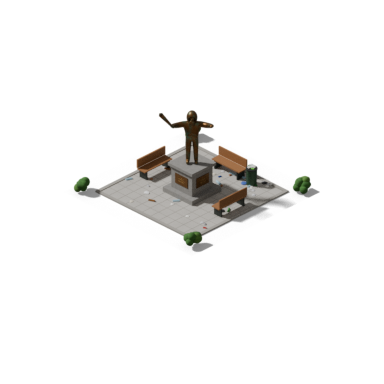
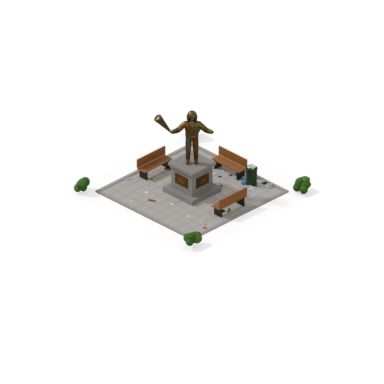
Socha Karla Machy: ruce niz, vousy po pupek, joint jako trychtyr, slabe stiny
Ruce od sebe ale niz (dlane ve vysce hrudi), dlouhe vousy s prameny az po
pupek leza na mikine, u kamenne o kus tmavsi. Joint je rovny kuzel od
tenkeho filtru do sirokeho useknuteho konce. Slabsi slunce, silnejsi okoli
a stin na travu jen 20 %.

Claude-Session: https://claude.ai/code/session_01P6zYdmMEQjTTZJyV6Qb8Ch

diff --git a/socha/render_socha.py b/socha/render_socha.py
@@ -2,14 +2,16 @@
 # Socha Karla Máchy na 1 policko (hrac 1. 10.: "udelej Karel Macha statue, policko 1x1 sochu uprostred, sedou
 # z kamene a bronzovou, karel macha bude mit kapucu, vousy a obrovskyho dzonta v ruce, ruce bude mit od sebe jako by
 # se chystal obejmout neco velkyho, okolo lavicky, male krovicko, odpadak, odpadky").
-# Vlastni model, kamera, meritko, svetlo a stin jako automat (automat/render_automat.py), vsechno dvakrat vetsi
-# (MERITKO 2) jako automat, at to k sobe sedi.
+# Pak (hrac): "ruce trochu niz, ne podel tela, neco mezi tim, vousy po pupek dlouhy a jointa vic do trychtyre, sirsi na
+# konci" a "mnohem mene stinu".
+# Vlastni model, kamera a meritko jako automat (automat/render_automat.py), vsechno dvakrat vetsi (MERITKO 2) jako
+# automat, at to k sobe sedi. Slunce slabsi a okoli silnejsi nez u automatu, stin na travu jen 20 %.
 #   python3 render_socha.py <vystup.png>          SOCHA=kamen (sediva z kamene) nebo SOCHA=bronz
 # Souradnice jako ve hre: x k jihozapadu, y k jihovychodu, z nahoru, pocatek v severnim rohu policka; skupina je
 # navrzena ve skutecne velikosti kolem stredu policka C a zvetsi se K krat.
 # Postava stoji na podstavci cela k divakovi (k jihu), aby roztazene ruce byly na obrazku vodorovne: mikina s kapuci
-# na hlave, plnovous, ruce dopredu od sebe jako k objeti, v prave ruce obrovsky joint. Telo je kostra s modifikatorem
-# Skin a vyhlazenim, takze je hladke jako tesane nebo lite.
+# na hlave, plnovous po pupek, ruce od sebe jako k objeti, v prave ruce obrovsky joint jako trychtyr. Telo je kostra
+# s modifikatorem Skin a vyhlazenim, takze je hladke jako tesane nebo lite.
 import bpy, bmesh, os, sys, math, json, random
 import numpy as np
 from mathutils import Vector, Matrix, noise
@@ -42,7 +44,7 @@ bg = nt.nodes.new('ShaderNodeBackground'); env = nt.nodes.new('ShaderNodeTexEnvi
 env.image = bpy.data.images.load(HDRI)
 nt.links.new(env.outputs['Color'], bg.inputs['Color']); nt.links.new(bg.outputs['Background'], wo.inputs['Surface'])
 scene.world.cycles_visibility.shadow = True
-bg.inputs["Strength"].default_value = float(os.environ.get("OKOLI", "0.35"))
+bg.inputs["Strength"].default_value = float(os.environ.get("OKOLI", "0.9"))      # hrac: "mnohem mene stinu"
 
 def srgb(c):
     return tuple(((v / 255) ** 2.2) for v in c) + (1.0,)
@@ -88,6 +90,8 @@ M = {
     "cerna": mat("cerna", (14, 14, 14), 0.9),
 }
 M["socha"] = bronz() if SOCHA == "bronz" else mat("socha", (178, 176, 170), 0.9, sum_=0.08, meritko=10.0)
+# vousy u kamenne hrube tesane, o kus tmavsi, jinak by se pri slabych stinech ztratily na mikine (bronz stejny)
+M["vousy"] = M["socha"] if SOCHA == "bronz" else mat("vousy", (146, 144, 138), 0.95, sum_=0.16, meritko=40.0)
 ODPAD = {"papir": [mat(f"papir{i}", c, 0.9) for i, c in enumerate([(236, 234, 226), (214, 206, 186), (200, 200, 204)])],
          "plech": [mat(f"plech{i}", c, 0.35, kov=0.6) for i, c in enumerate([(196, 30, 34), (190, 192, 196), (36, 80, 170), (40, 140, 60)])],
          "lahev": [mat(f"lahev{i}", c, 0.2) for i, c in enumerate([(160, 196, 214), (70, 140, 70), (120, 80, 40)])],
@@ -246,9 +250,10 @@ KOSTI = {
     "panev": (0, 0, 0.98), "bricho": (0, 0.01, 1.15), "hrud": (0, 0, 1.33), "krk": (0, 0, 1.50),
     "kycel_p": (0.10, 0, 0.93), "koleno_p": (0.12, 0.04, 0.52), "kotnik_p": (0.13, 0, 0.10), "spicka_p": (0.15, 0.18, 0.05),
     "kycel_l": (-0.10, 0, 0.93), "koleno_l": (-0.12, 0.04, 0.52), "kotnik_l": (-0.13, 0, 0.10), "spicka_l": (-0.15, 0.18, 0.05),
-    # ruce od sebe dopredu jako k objeti neceho velkeho: nadlokti do stran a malo dopredu, predlokti dopredu a ven
-    "rameno_p": (0.23, 0, 1.43), "loket_p": (0.50, 0.16, 1.46), "zapesti_p": (0.62, 0.40, 1.58), "ruka_p": (0.64, 0.52, 1.63),
-    "rameno_l": (-0.23, 0, 1.43), "loket_l": (-0.50, 0.16, 1.46), "zapesti_l": (-0.62, 0.40, 1.58), "ruka_l": (-0.64, 0.52, 1.63),
+    # ruce od sebe jako k objeti neceho velkeho, ale niz (hrac: "ne podel tela, neco mezi tim"): nadlokti sikmo dolu
+    # do stran a malo dopredu, predlokti dopredu a ven, dlane ve vysce hrudi
+    "rameno_p": (0.23, 0, 1.43), "loket_p": (0.446, 0.075, 1.235), "zapesti_p": (0.611, 0.281, 1.29), "ruka_p": (0.667, 0.37, 1.323),
+    "rameno_l": (-0.23, 0, 1.43), "loket_l": (-0.446, 0.075, 1.235), "zapesti_l": (-0.611, 0.281, 1.29), "ruka_l": (-0.667, 0.37, 1.323),
 }
 HRANY = [("panev", "bricho"), ("bricho", "hrud"), ("hrud", "krk")]
 for s in ("p", "l"):
@@ -291,23 +296,58 @@ def otvor_kapuce(p):
 kapuce = elipsoid("kapuce", (0, -0.035, 1.65), (0.17, 0.185, 0.23), otvor_kapuce)                # vyssi nad hlavou
 sol = kapuce.modifiers.new("tloustka", 'SOLIDIFY'); sol.thickness = 0.016; sol.offset = -1.0
 kapuce.modifiers.new("hladke", 'SUBSURF').levels = 1
-# plnovous: brada, lice a knir
-elipsoid("vousy", (0, 0.07, 1.48), (0.105, 0.08, 0.15))                      # plnovous az na prsa
-elipsoid("knir", (0, 0.11, 1.585), (0.055, 0.025, 0.02))
-elipsoid("kapsa", (0, 0.135, 1.08), (0.15, 0.028, 0.08))                     # klokani kapsa mikiny
+def loft(jmeno, kruhy, konec=None, deleni=1):
+    """sit z kruhu bodu (vsechny stejne dlouhe) spojenych pasy; prvni kruh zavre stena, posledni stena nebo spicka konec"""
+    bm = bmesh.new()
+    vk = [[bm.verts.new(p) for p in k] for k in kruhy]
+    n = len(vk[0])
+    for a, b in zip(vk, vk[1:]):
+        for k in range(n):
+            bm.faces.new((a[k], a[(k + 1) % n], b[(k + 1) % n], b[k]))
+    bm.faces.new(vk[0])
+    if konec is None:
+        bm.faces.new(vk[-1])
+    else:
+        v = bm.verts.new(konec)
+        for k in range(n):
+            bm.faces.new((vk[-1][k], vk[-1][(k + 1) % n], v))
+    bmesh.ops.recalc_face_normals(bm, faces=bm.faces)
+    m_ = bpy.data.meshes.new(jmeno); bm.to_mesh(m_); bm.free()
+    o = bpy.data.objects.new(jmeno, m_); scene.collection.objects.link(o)
+    sub = o.modifiers.new("hladke", 'SUBSURF'); sub.levels = sub.render_levels = deleni
+    pridej(o)
+    return o
 
-# obrovsky joint v prave ruce: kuzel od prstu ven a nahoru, u prstu uzky, na konci siroky se zakroucenou spickou
+# plnovous: lice a brada, knir a dlouhe vousy po pupek (hrac): od brady pres prsa a bricho do spicky. Vzadu lezi
+# kousek zanorene na mikine (predek tela zmereny z modelu: y 0,09 u krku, 0,15 na bricho), vpredu pramenky.
+VOUSY_OBJ = [elipsoid("vousy", (0, 0.07, 1.48), (0.105, 0.08, 0.15)), elipsoid("knir", (0, 0.11, 1.585), (0.055, 0.025, 0.02))]
+def kruh_vousu(z, w, d, yc, n=48):
+    body = []
+    for k in range(n):
+        a = 2 * math.pi * k / n
+        pramen = 1 + 0.07 * math.cos(12 * a) * max(0.0, math.sin(a))
+        body.append((w * math.cos(a) * pramen, yc + d * math.sin(a) * pramen, z))
+    return body
+# kruhy dlouhych vousu: (vyska, pulsirka, pulhloubka, stred y)
+VOUSY = [(1.57, 0.085, 0.04, 0.095), (1.50, 0.105, 0.05, 0.125), (1.42, 0.11, 0.047, 0.147), (1.33, 0.102, 0.041, 0.158),
+         (1.25, 0.09, 0.036, 0.164), (1.18, 0.072, 0.03, 0.166), (1.12, 0.048, 0.024, 0.162), (1.075, 0.022, 0.015, 0.152)]
+VOUSY_OBJ.append(loft("vousy_dlouhe", [kruh_vousu(*v) for v in VOUSY], konec=(0, 0.149, 1.048), deleni=2))
+for o in VOUSY_OBJ: o.data.materials[0] = M["vousy"]
+elipsoid("kapsa", (0, 0.13, 1.0), (0.15, 0.028, 0.075))                      # klokani kapsa mikiny, kousek pod vousy
+
+# obrovsky joint v prave ruce jako trychtyr (hrac: "zvyraznit trychtyrovitost, sirsi na konci"; rovny tlusty kuzel byl
+# "americky typu fat"): u prstu tenky filtr, pak rovny kuzel az do sirokeho konce, ten je useknuty a uprostred
+# zakrouceny do male spicky
 ruka = Vector(KOSTI["ruka_p"])
-smer = Vector((0.5, 0.35, 0.8)).normalized()
-DELKA, R_UZKY, R_SIROKY = 0.8, 0.022, 0.065
-bm = bmesh.new()
-bmesh.ops.create_cone(bm, cap_ends=True, cap_tris=False, segments=16, radius1=R_UZKY, radius2=R_SIROKY, depth=DELKA)
-bmesh.ops.create_cone(bm, cap_ends=True, cap_tris=False, segments=16, radius1=R_SIROKY * 0.95, radius2=0.004, depth=0.09,
-                      matrix=Matrix.Translation((0, 0, DELKA / 2 + 0.045)))
-rot = Vector((0, 0, 1)).rotation_difference(smer).to_matrix().to_4x4()
-bmesh.ops.transform(bm, matrix=Matrix.Translation(ruka + smer * (DELKA / 2 - 0.08)) @ rot, verts=bm.verts)
-m_ = bpy.data.meshes.new("joint"); bm.to_mesh(m_); bm.free()
-joint = bpy.data.objects.new("joint", m_); scene.collection.objects.link(joint); pridej(joint)
+smer = Vector((0.55, 0.2, 0.8)).normalized()
+u_ = smer.orthogonal().normalized(); v_ = smer.cross(u_)
+PROFIL = [(0.0, 0.016), (0.08, 0.018), (0.085, 0.022), (0.10, 0.022)]                       # (od konce v puse, polomer)
+PROFIL += [(0.10 + 0.74 * i / 8, 0.022 + 0.11 * i / 8) for i in range(1, 9)]              # rozevira se az na 0,132
+PROFIL += [(0.85, 0.128), (0.862, 0.11), (0.872, 0.075), (0.878, 0.04), (0.885, 0.018), (0.905, 0.008)]
+zac = ruka - smer * 0.06                                                                     # filtr mezi prsty
+kruhy = [[zac + smer * s + (u_ * math.cos(2 * math.pi * k / 24) + v_ * math.sin(2 * math.pi * k / 24)) * r for k in range(24)]
+         for s, r in PROFIL]
+loft("joint", kruhy, konec=zac + smer * 0.925)
 
 koren.location = B(C, C, Z_PODST)
 koren.rotation_euler = (0, 0, math.radians(-135))     # misto +y (dopredu) miri k jihu (na policku +x +y)
@@ -329,7 +369,7 @@ c = cam.constraints.new(type='TRACK_TO'); c.target = cil
 ke_kamere = Vector((math.sin(az), -math.cos(az), 0.0)); vlevo = Vector((-math.cos(az), -math.sin(az), 0.0))
 odkud = (vlevo * 1.0 + ke_kamere * -0.25 + Vector((0, 0, 1.0))).normalized()
 bpy.ops.object.light_add(type='SUN'); sl = bpy.context.object
-sl.data.energy = float(os.environ.get("SLUNCE", "5.0")); sl.data.angle = math.radians(6)
+sl.data.energy = float(os.environ.get("SLUNCE", "2.0")); sl.data.angle = math.radians(6)
 sl.rotation_euler = odkud.to_track_quat('Z', 'Y').to_euler()
 
 def na_pixel(p):
@@ -340,7 +380,7 @@ rohy = {"sever": na_pixel(Vector((0, 0, 0))), "vychod": na_pixel(Vector((T, 0, 0
         "zapad": na_pixel(Vector((0, -T, 0))), "jih": na_pixel(Vector((T, -T, 0)))}
 print("rohy policka na obrazku", {k: tuple(round(c, 2) for c in v) for k, v in rohy.items()})
 
-# stin na travu na 55 % jako automat
+# stin na travu jen na 20 % (automat ma 55 %), hrac chtel u sochy mnohem mene stinu
 def render_do_pole():
     scene.render.filepath = os.path.splitext(VYSTUP)[0] + "_tmp.png"
     bpy.ops.render.render(write_still=True)
@@ -350,7 +390,7 @@ def render_do_pole():
 A = render_do_pole()
 zem.hide_render = True
 Bp = render_do_pole()
-STIN = float(os.environ.get("STIN", "0.55"))
+STIN = float(os.environ.get("STIN", "0.2"))
 aB = Bp[..., 3]; aS = np.clip((A[..., 3] - aB) / np.maximum(1 - aB, 1e-6), 0, 1) * STIN
 alfa = aB + (1 - aB) * aS
 barva = np.where(alfa[..., None] > 0, Bp[..., :3] * aB[..., None] / np.maximum(alfa[..., None], 1e-6), 0)

diff --git a/socha/README.md b/socha/README.md
@@ -2,17 +2,20 @@
 
 Hráč 1. 10.: *„udělej Karel Mácha statue, políčko 1x1 sochu uprostřed, šedou z kamene a bronzovou, karel mácha bude
 mít kapucu, vousy a obrovskýho džonta v ruce, ruce bude mít od sebe jako by se chystal obejmout něco velkýho, okolo
-lavičky, malé křovíčko, odpaďák, odpadky“*. Jen obrázek jako u gymnázia a automatu, do hry ho zabuduje session hry
-ve forclaude.
+lavičky, malé křovíčko, odpaďák, odpadky“*. Pak *„ruce trochu níž, ne podél těla, asi tak něco mezi tím, vousy po
+pupek dlouhý a jointa víc do trychtýře, zvýraznit trychtýřovitost, širší na konci“* (předtím to byl *„americký džont
+typu fat“*) a *„mnohem méně stínů“*. Jen obrázek jako u gymnázia a automatu, do hry ho zabuduje session hry ve forclaude.
 
-Vlastní model, žádný cizí: `render_socha.py` ho postaví v Blenderu a vyfotí. Kamera, světlo a stín na trávu
-(55 %) jako u automatu (`automat/`), aby k sobě seděly.
+Vlastní model, žádný cizí: `render_socha.py` ho postaví v Blenderu a vyfotí. Kamera jako u automatu (`automat/`).
+**Stíny mnohem slabší než u automatu:** slabší slunce, silnější světlo okolí a stín na trávu jen 20 % (automat 55 %).
 
-- **Karel Mácha:** v mikině s kapucí nasazenou na hlavě, obličej v ní zapadlý, plnovous až na prsa a knír, na
-  břiše klokaní kapsa. Ruce roztažené dopředu od sebe, jako by se chystal obejmout něco velkého. V pravé ruce
-  obrovský joint: u prstů úzký, na konci široký se zakroucenou špičkou. Stojí čelem k divákovi (k jihu), takže
-  roztažené ruce jsou na obrázku vodorovně.
-- **Dvě verze:** šedá z kamene a bronzová (kov se zelenavou patinou na místech). Jinak jsou stejné.
+- **Karel Mácha:** v mikině s kapucí nasazenou na hlavě, obličej v ní zapadlý, knír a plnovous s prameny až po
+  pupek, pod ním klokaní kapsa. Ruce od sebe, jako by se chystal obejmout něco velkého, ale níž: ne podél těla,
+  nadloktí šikmo dolů do stran, dlaně ve výšce hrudi. V pravé ruce obrovský joint jako trychtýř: u prstů tenký
+  filtr, pak rovný kužel, který se rozevírá až do širokého konce, ten je useknutý a uprostřed zakroucený do malé
+  špičky. Stojí čelem k divákovi (k jihu).
+- **Dvě verze:** šedá z kamene a bronzová (kov se zelenavou patinou na místech). U kamenné jsou vousy hrubě tesané
+  a o kousek tmavší, jinak by se při slabých stínech ztratily na mikině. Jinak jsou obě stejné.
 - **Podstavec** ze žuly: schod, kvádr a římsa, nahoře 1,4 m. Na obou předních stěnách (ty, co jsou vidět)
   bronzová deska s vystouplým nápisem KAREL MÁCHA.
 - **Kolem:** náměstíčko z dlaždic 50 cm s obrubníkem uprostřed políčka. Tři lavičky čelem k soše: dvě za ní,
@@ -31,6 +34,9 @@ Vlastní model, žádný cizí: `render_socha.py` ho postaví v Blenderu a vyfot
 | `nahled_ve_hre.png` | obě sochy ve fotce ze zkušební hry u silnice s Tatrami, zvětšeno 2× |
 | `zblizka.png` | obě sochy vedle sebe zblízka |
 
-Složit znovu: `SOCHA=kamen python3 render_socha.py <výstup.png>`, bronzová `SOCHA=bronz` (128 vzorků, asi 20 s).
-`MERITKO=1` dá skutečnou velikost. Tělo je kostra s modifikátorem Skin a vyhlazením, takže je hladké jako
-tesané nebo lité; kapuce je skořepina s otvorem pro obličej, vousy, nos a kapsa jsou elipsoidy.
+Složit znovu: `SOCHA=kamen python3 render_socha.py <výstup.png>`, bronzová `SOCHA=bronz` (128 vzorků, asi 15 s).
+`MERITKO=1` dá skutečnou velikost, `SLUNCE`, `OKOLI` a `STIN` mění světlo (teď 2,0, 0,9 a 0,2; automat má 5,0, 0,35
+a 0,55). Tělo je kostra s modifikátorem Skin a vyhlazením, takže je hladké jako tesané nebo lité; kapuce je
+skořepina s otvorem pro obličej, nos, líce s bradou, knír a kapsa jsou elipsoidy. Dlouhé vousy a joint jsou
+poskládané z kroužků: vousy leží kousek zanořené na mikině (její předek je změřený přímo z modelu), joint je
+kroužek po kroužku podle profilu trychtýře.
